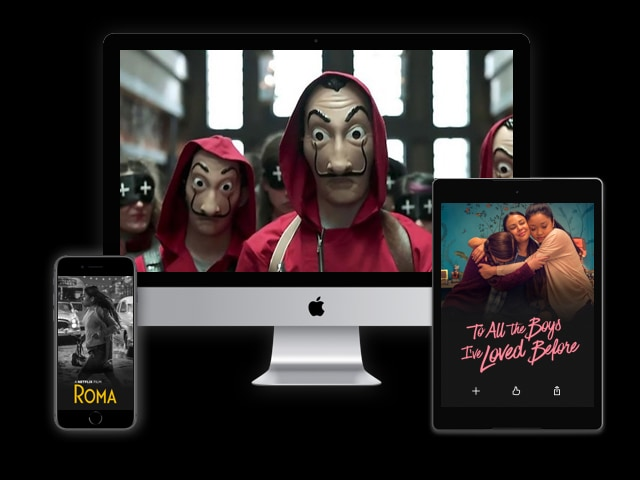
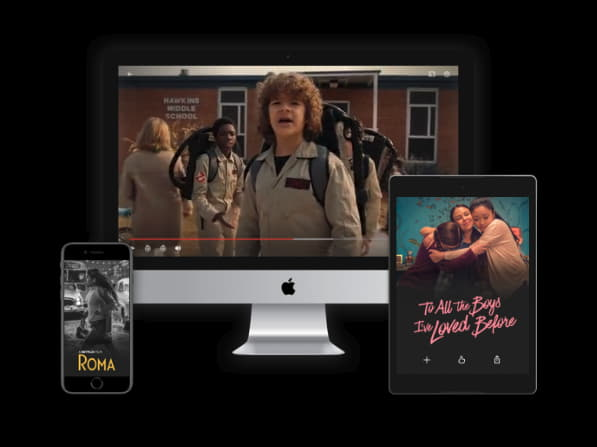
Add storyCards component & content

diff --git a/src/parts/StoryCards.js b/src/parts/StoryCards.js
@@ -1,5 +1,5 @@
 import styled from 'styled-components'
-import { colors } from '../styles/style-constants'
+import storyContentData from '../fixtures/storycard-content.json'
 
 const StoryCardsContainer = styled.div``
 
@@ -8,10 +8,7 @@ const StoryCard = styled.section`
   max-width: 950px;
   padding: 50px 5%;
   border-bottom: 8px solid #222;
-  background-image: url('../images/misc/home-bg.jpg');
 `
-
-/* top left / cover no-repeat; */
 
 const TextWrapper = styled.div`
   text-align: center;
@@ -33,67 +30,22 @@ const Subtitle = styled.h2`
   margin: 1rem auto;
 `
 
-const Form = styled.form`
-  display: flex;
-  flex-direction: column;
-`
-
-const FormText = styled.h3`
-  padding: 0 5%;
-  max-width: 450px;
+const StoryImage = styled.img`
   margin: 0 auto;
-  font-weight: 400;
-  font-size: 1.2rem;
-  line-height: 1.25;
-`
-
-const EmailForm = styled.div`
-  display: flex;
-  flex-direction: column;
-`
-const EmailInput = styled.input`
-  margin: 10px auto;
-  width: 100%;
-  max-width: 500px;
-  padding: 10px;
-  border: 1px solid #8c8c8c;
-  font-size: 0.875rem;
-`
-
-const EmailSubmit = styled.button`
-  background-color: ${colors.netflixRed};
-  color: #fff;
-  border: 0;
-  margin: 0.25em auto;
-  padding: 0 1em;
-  min-height: 40px;
-  min-width: 74px;
-  letter-spacing: 0.1px;
-  line-height: initial;
-  cursor: pointer;
 `
 
 export default function StoryCards() {
-  return (
-    <StoryCardsContainer>
-      <StoryCard>
-        <TextWrapper>
-          <Title>Unlimited movies, TV shows, and more.</Title>
-          <Subtitle>Watch anywhere. Cancel anytime.</Subtitle>
-          <Form>
-            <FormText>
-              Ready to watch? Enter your email to create or restart your
-              membership.
-            </FormText>
-            <EmailForm>
-              <EmailInput type='email' placeholder='Email address' />
-              <EmailSubmit>Get Started</EmailSubmit>
-            </EmailForm>
-          </Form>
-        </TextWrapper>
-      </StoryCard>
-    </StoryCardsContainer>
-  )
+  const storyContent = storyContentData.map((item) => (
+    <StoryCard key={item.id}>
+      <TextWrapper>
+        <Title>{item.title}</Title>
+        <Subtitle>{item.subtitle}</Subtitle>
+      </TextWrapper>
+      <StoryImage src={item.image} alt={item.alt} />
+    </StoryCard>
+  ))
+
+  return <StoryCardsContainer>{storyContent}</StoryCardsContainer>
 }
 
 /* 

diff --git a/src/pages/Home.js b/src/pages/Home.js
@@ -4,6 +4,7 @@ export default function Home() {
   return (
     <>
       <Header />
+      <StoryCards />
     </>
   )
 }
